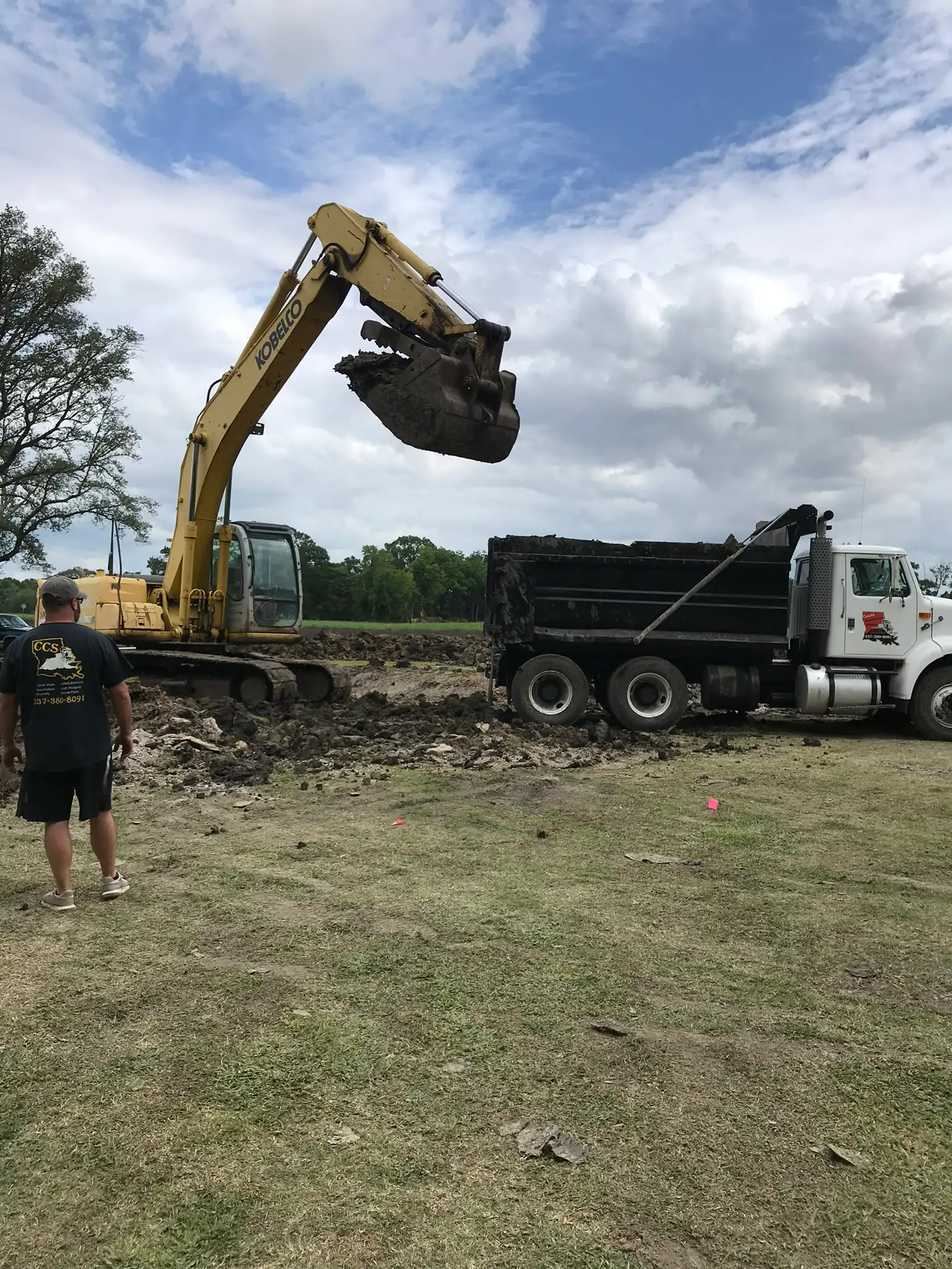
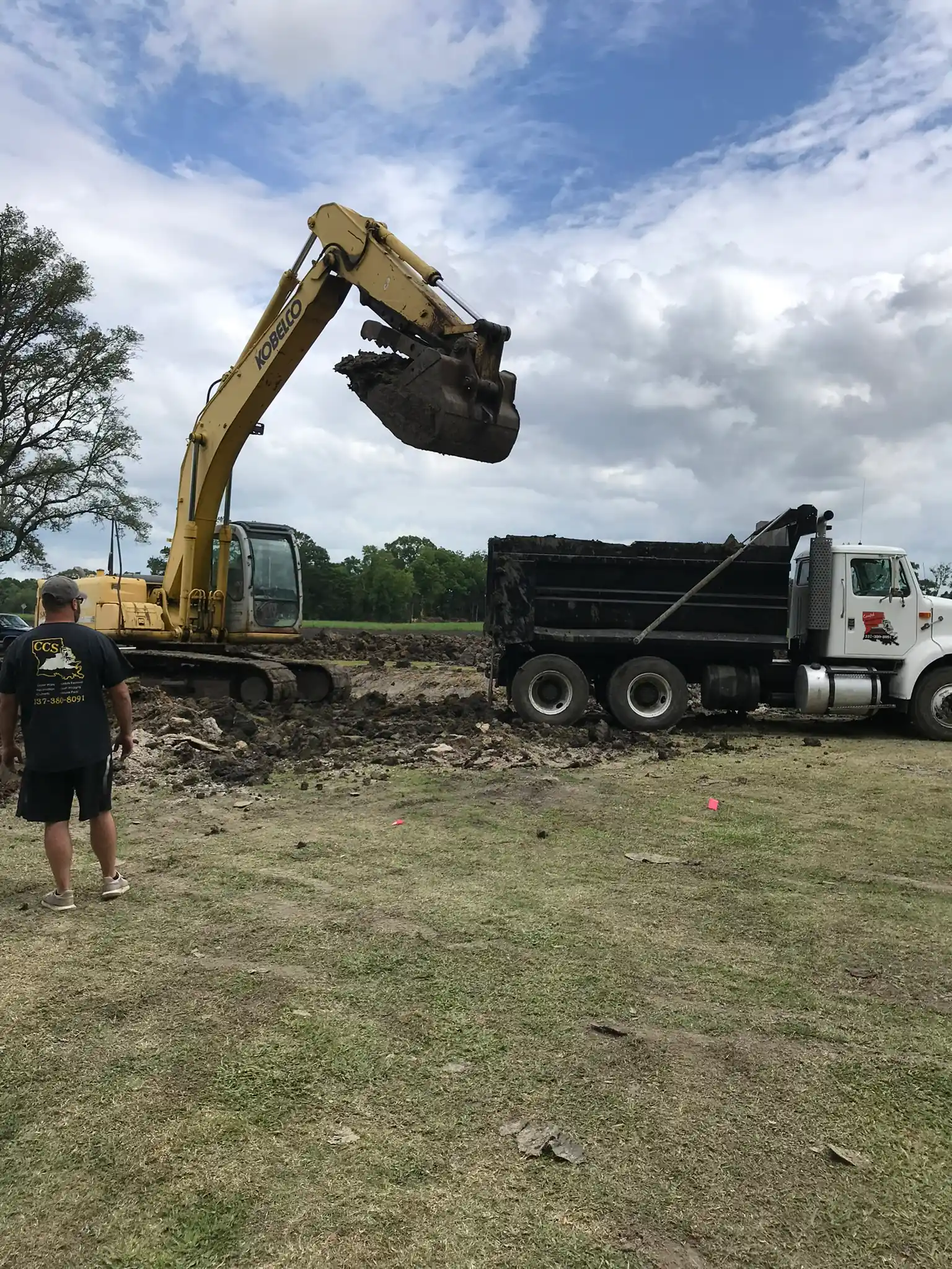
Performance: 4:3 card crops, deferred card photos, lighter hero
Home cards get their own centre-cropped 4:3 cuts instead of portrait
photos, and wait for an IntersectionObserver so they don't compete with
the hero on a slow connection. The hero (under a 60% scrim) is cut at
lower quality; logos are no longer preloaded. Home Lighthouse mobile
performance 84 -> 95; first load 1.9 MB -> 0.43 MB.

diff --git a/components/DeferredImage.tsx b/components/DeferredImage.tsx
@@ -1,0 +1,46 @@
+"use client";
+
+/**
+ * A photo that isn't requested until it's about to scroll into view.
+ *
+ * Native loading="lazy" isn't enough for the home page's nine service
+ * cards: on a slow phone connection Chrome starts lazy images up to
+ * ~2500px ahead, so all nine (~700 KB) download alongside the hero photo
+ * and slow it down. This waits for an IntersectionObserver instead.
+ *
+ * The box is sized by its container (the card's 4:3 aspect ratio), so
+ * nothing shifts when the photo arrives. Without JavaScript, the
+ * <noscript> copy shows the photo as usual.
+ */
+import Image, { type ImageProps } from "next/image";
+import { useEffect, useRef, useState } from "react";
+
+export function DeferredImage(props: ImageProps & { alt: string }) {
+  const ref = useRef<HTMLSpanElement>(null);
+  const [show, setShow] = useState(false);
+
+  useEffect(() => {
+    const el = ref.current;
+    if (!el || !("IntersectionObserver" in window)) return setShow(true);
+    const io = new IntersectionObserver(
+      (entries) => {
+        if (entries.some((e) => e.isIntersecting)) {
+          setShow(true);
+          io.disconnect();
+        }
+      },
+      { rootMargin: "400px 0px" }
+    );
+    io.observe(el);
+    return () => io.disconnect();
+  }, []);
+
+  if (show) return <Image {...props} />;
+  return (
+    <span ref={ref} className="block h-full w-full">
+      <noscript>
+        <Image {...props} />
+      </noscript>
+    </span>
+  );
+}

diff --git a/components/ServiceCards.tsx b/components/ServiceCards.tsx
@@ -1,8 +1,8 @@
-import Image from "next/image";
 import Link from "next/link";
 import { client } from "@/client.config";
 import { services } from "@/content/services";
 import { photo } from "@/lib/photo";
+import { DeferredImage } from "./DeferredImage";
 import { Highlight } from "./Highlight";
 import { Reveal } from "./Reveal";
 
@@ -22,8 +22,8 @@ export function ServiceCards() {
           <Reveal key={svc.slug}>
             <Link href={`/services#${svc.slug}`} className="block text-inherit no-underline">
               <div className="portfolio-item">
-                <Image
-                  {...photo(svc.photo)}
+                <DeferredImage
+                  {...photo(`${svc.photo}-card`)}
                   alt={svc.alt.card}
                   sizes="(max-width: 968px) 100vw, (min-width: 1400px) 33vw, 50vw"
                 />

diff --git a/lib/photo.ts b/lib/photo.ts
@@ -7,11 +7,11 @@
  *   <Image {...photo("pond-construction")} alt="…" sizes="…" />
  */
 import manifest from "@/content/imageManifest.json";
-import type { PhotoName } from "@/content/types";
+import type { CardPhotoName, PhotoName } from "@/content/types";
 
 type Entry = { width: number; height: number; widths: number[] };
 
-export function photo(name: PhotoName) {
+export function photo(name: PhotoName | CardPhotoName) {
   const entry = (manifest as Record<string, Entry>)[name];
   if (!entry) {
     throw new Error(`[photo] "${name}" is not in content/imageManifest.json — run \`npm run images\`.`);

diff --git a/components/Hero.tsx b/components/Hero.tsx
@@ -18,7 +18,7 @@ export function Hero() {
       <Image {...photo("hero-dirt-work")} alt="" className="hero-photo" sizes="100vw" priority />
       <div className="hero-scrim" aria-hidden="true" />
       <div className="hero-content">
-        <Image {...photo("logo")} alt={h.logoAlt} className="hero-logo" sizes="300px" priority />
+        <Image {...photo("logo")} alt={h.logoAlt} className="hero-logo" sizes="300px" loading="eager" />
         <div className="logo">
           <Highlight text={h.wordmark} />
           <span className="logo-subtitle">{h.subtitle}</span>

diff --git a/components/Nav.tsx b/components/Nav.tsx
@@ -20,7 +20,7 @@ export function Nav() {
     <nav className="site-nav" aria-label="Primary">
       <div className="nav-brand">
         <Link href="/">
-          <Image {...photo("logo")} alt={client.nav.logoAlt} className="nav-logo-img" sizes="100px" priority />
+          <Image {...photo("logo")} alt={client.nav.logoAlt} className="nav-logo-img" sizes="100px" />
         </Link>
         <Link href="/" className="nav-logo">
           {/* Direct children of the flex column, as the old markup was, so

diff --git a/content/types.ts b/content/types.ts
@@ -27,6 +27,9 @@ export type PhotoName =
   | "owner-kevin-meyers"
   | "logo";
 
+/** A service photo's 4:3 centre crop, cut for the home page's cards. */
+export type CardPhotoName = `${PhotoName}-card`;
+
 /**
  * One service. The home page's cards, the services page and the contact
  * form's dropdown all map over the same list (content/services.ts), so
